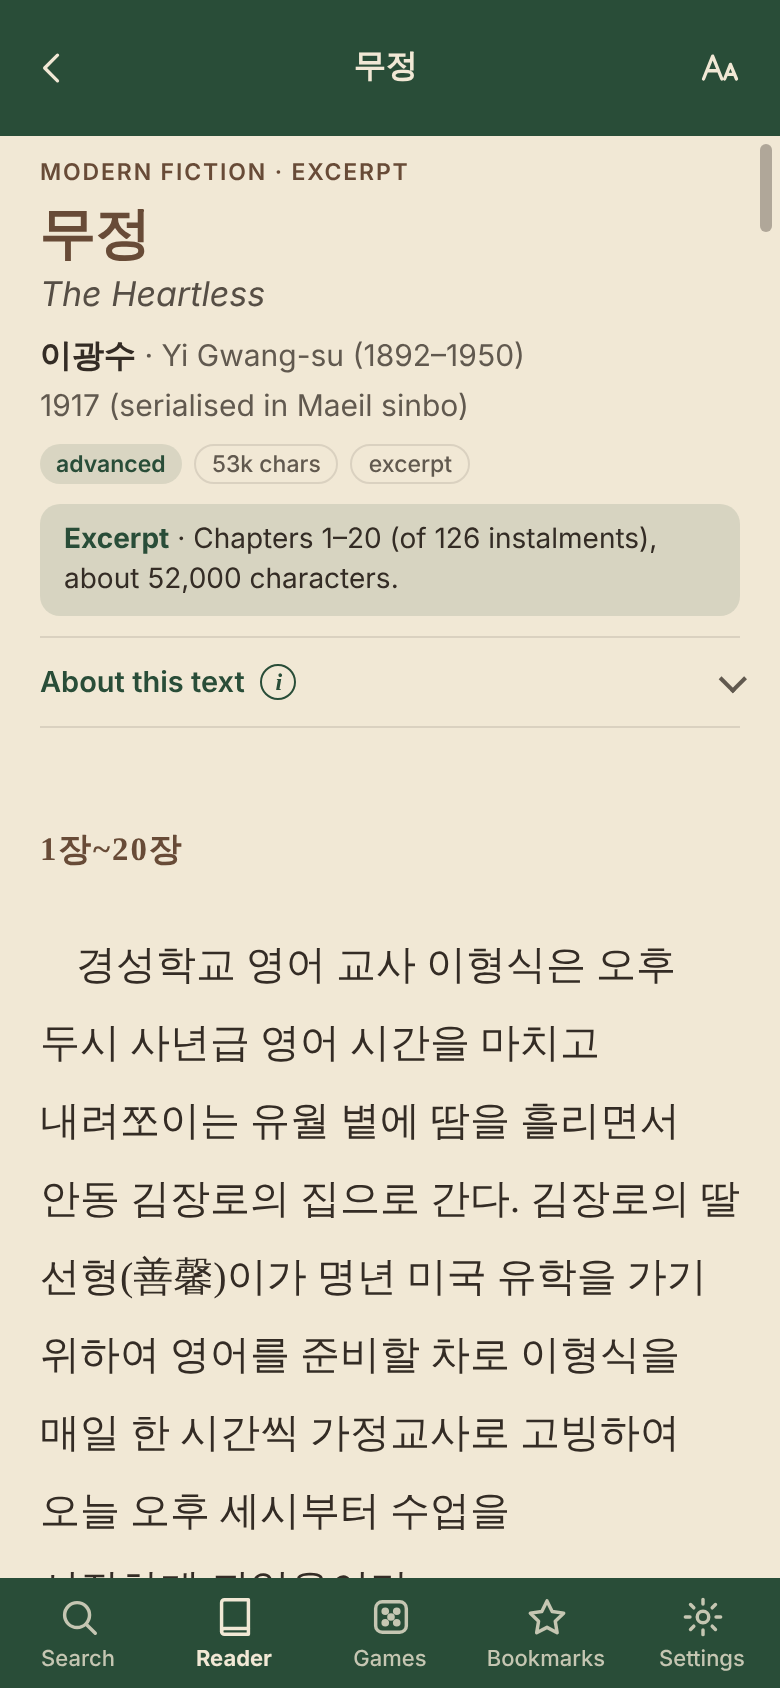
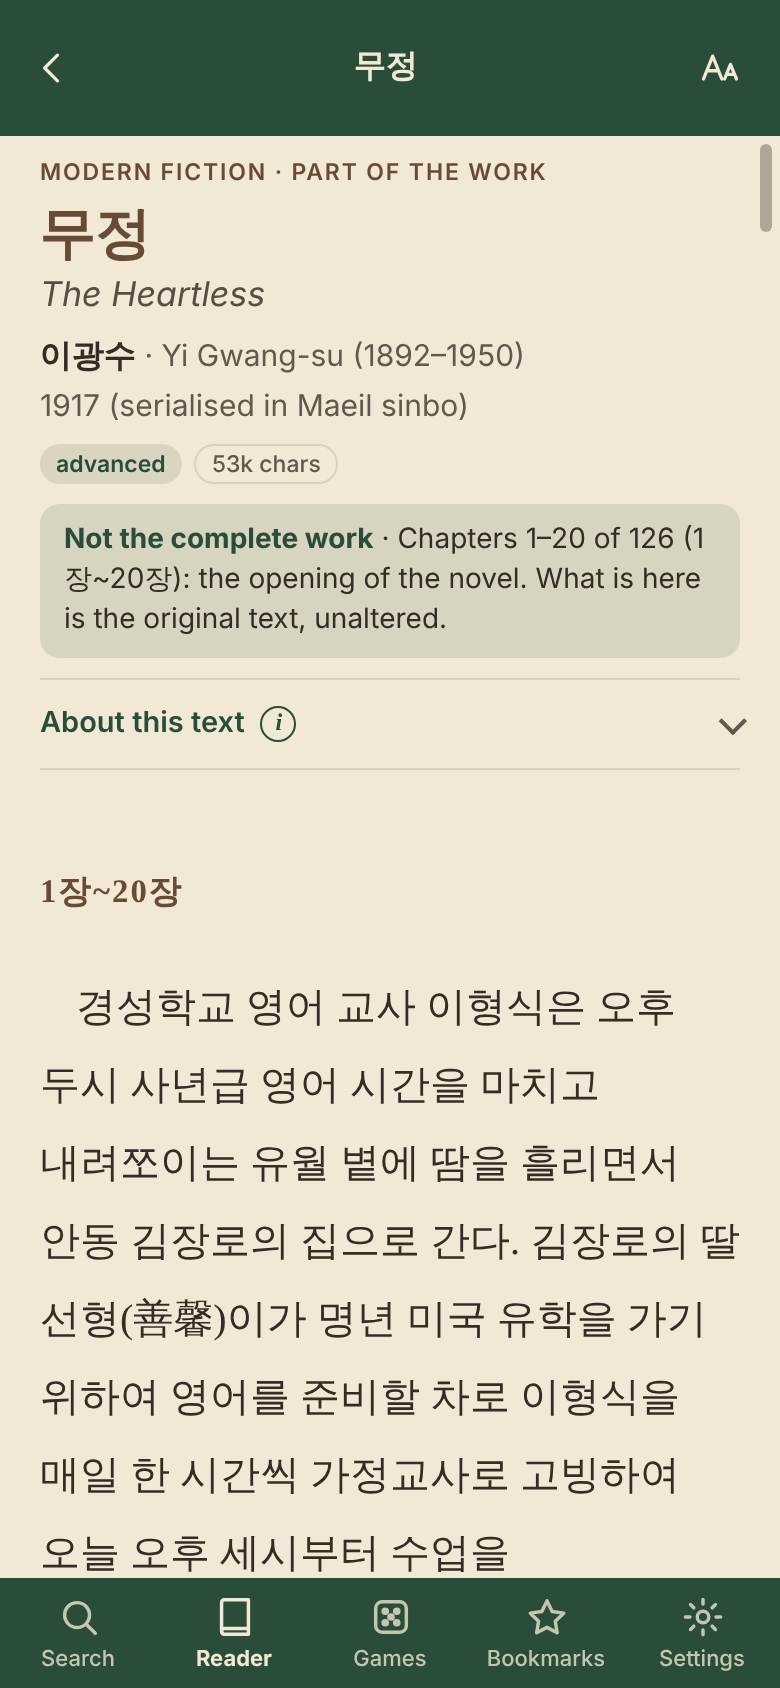
Reader: label incomplete works with what they contain; stop calling complete works excerpts
A catalogue `scope` line now marks the nine texts that are not the complete work (무정 1–20 of
126 chapters, 한중록 vol. 1 of 6, 표해록 book 1 of 3, 열하일기 one of 26 chapters, 인간문제 the
opening, 담헌연기 one section, four 실록 entries, 훈민정음 without the 해례, 오감도 poem 1 of 15).
The text shows "Not the complete work · <scope>. What is here is the original text, unaltered."
and the library a "part" chip. Complete works that were lifted from a busier page (the 1919
Declaration, the treaties, single newspaper columns) are no longer labelled as excerpts; the
current Constitution, wrongly described as Articles 1–110, is complete. Sectioning rules recorded.

Claude-Session: https://claude.ai/code/session_01KdPaeje8PEPnx6eSEhkmxd

diff --git a/app/src/db/types.ts b/app/src/db/types.ts
@@ -78,13 +78,13 @@ export interface TextBackground {
 export interface TextSummary {
   id: string; shelf: string; period?: string | null; year?: number | null; script: 'hangul' | 'hanmun' | 'mixed' | string;
   level?: string | null; chars: number; title_ko: string; title_en?: string | null; author_ko?: string | null; author_en?: string | null;
-  date?: string | null; themes: string[]; excerpt?: boolean; labels: TextLabels; summary_ko?: string; summary_en?: string;
+  date?: string | null; themes: string[]; /** not the complete work */ excerpt?: boolean; labels: TextLabels; summary_ko?: string; summary_en?: string;
 }
 export interface TextParagraph { n: number; orig: string; modern?: string | null; reading?: string | null; en?: string | null }
 export interface TextProvenance { source?: string; url?: string; page_title?: string; revision_id?: string | number; revision_timestamp?: string; edition?: string; licence?: string; fetched_at?: string; english_source?: string }
 export interface TextDoc {
   id: string;
-  meta: { title_ko: string; title_en?: string; author_ko?: string; author_en?: string; author_dates?: string; date?: string; year?: number; period?: string; themes?: string[]; shelf?: string; script?: string; excerpt?: boolean; excerpt_note?: string; pd_basis?: string; [k: string]: unknown };
+  meta: { title_ko: string; title_en?: string; author_ko?: string; author_en?: string; author_dates?: string; date?: string; year?: number; period?: string; themes?: string[]; shelf?: string; script?: string; excerpt?: boolean; excerpt_note?: string; scope?: string; pd_basis?: string; [k: string]: unknown };
   card: { summary_ko?: string; summary_en?: string; level?: string; edition_ko?: string; edition_en?: string };
   notes: { ko?: string; en?: string; background?: TextBackground | null };
   provenance?: TextProvenance | null;

diff --git a/app/src/views/TextView.tsx b/app/src/views/TextView.tsx
@@ -372,7 +372,7 @@ export function TextView({ id }: { id: string }) {
       <div class="rd-scroll" ref={scroller} onScroll={onScroll} onClick={onClick}>
         <article class="rd-article">
           <header class="rd-card">
-            <div class="eyebrow">{shelfLabel(m.shelf ?? '')}{m.excerpt ? ' · excerpt' : ''}</div>
+            <div class="eyebrow">{shelfLabel(m.shelf ?? '')}{m.scope ? ' · part of the work' : ''}</div>
             <h1 class="rd-title" lang="ko">{m.title_ko}</h1>
             {m.title_en && <div class="rd-title-en">{m.title_en}</div>}
             <div class="rd-by">
@@ -383,9 +383,8 @@ export function TextView({ id }: { id: string }) {
               {doc.card.level && <span class="chip-lvl">{doc.card.level}</span>}
               <span class="chip-quiet">{fmtChars(total)}</span>
               {doc.labels.text === 'ai' && <span class="chip-ai">AI-written</span>}
-              {m.excerpt && <span class="chip-quiet">excerpt</span>}
             </div>
-            {m.excerpt && <div class="rd-excerpt" role="note"><strong>Excerpt</strong> · {m.excerpt_note || 'part of a longer work'}</div>}
+            {m.scope && <div class="rd-excerpt" role="note"><strong>Not the complete work</strong> · {m.scope}. What is here is the original text, unaltered.</div>}
             <details class="rd-about">
               <summary><span>About this text</span><span class="rd-i" aria-hidden="true">i</span></summary>
               <div class="rd-about-body">

diff --git a/app/e2e/fast-scroll.spec.ts b/app/e2e/fast-scroll.spec.ts
@@ -37,7 +37,8 @@ test('reader: draggable fast scroll (phone + iPad)', async ({ page }) => {
   await page.goto('/#/reader/mujeong');
   await expect(page.locator('.rd-title')).toBeVisible();
   // an excerpt says so at the top
-  await expect(page.locator('.rd-excerpt')).toHaveText(/^Excerpt · .*126/);
+  await expect(page.locator('.rd-excerpt')).toHaveText(/^Not the complete work · Chapters 1–20 of 126 .*original text, unaltered/);
+  await expect(page.locator('.rd-card .eyebrow')).toContainText('part of the work');
   await page.screenshot({ path: '../docs/screenshots/reader-excerpt-phone.png' });
   await dragCheck(page, 'fast-scroll-phone.png');
   // chapters show in the bubble

diff --git a/app/src/views/Reader.tsx b/app/src/views/Reader.tsx
@@ -65,7 +65,7 @@ function Chips({ t }: { t: TextSummary }) {
       {t.level && <span class="chip-lvl">{t.level}</span>}
       <span class="rd-len">{fmtChars(t.chars)}</span>
       {t.labels?.translation === 'ai' && <span class="chip-quiet">AI translation</span>}
-      {t.excerpt && <span class="chip-quiet">excerpt</span>}
+      {t.excerpt && <span class="chip-quiet">part</span>}
     </div>
   );
 }

diff --git a/core/src/texts.rs b/core/src/texts.rs
@@ -23,7 +23,7 @@ pub struct TextSummary {
     pub author_en: String,
     pub date: String,
     pub themes: Vec<String>,
-    /// True when the text is an excerpt of a longer work.
+    /// True when the text is not the complete work (the catalogue gives a `scope` line).
     pub excerpt: bool,
     /// Blurb from the card (empty for texts without enrichment).
     pub summary_ko: String,
@@ -93,7 +93,7 @@ pub fn list_texts(pack: Option<&PackDb>) -> Result<Vec<TextSummary>> {
                 author_en: str_of(&meta, "author_en"),
                 date: str_of(&meta, "date"),
                 themes: meta.get("themes").and_then(Value::as_array).map(|a| a.iter().filter_map(Value::as_str).map(String::from).collect()).unwrap_or_default(),
-                excerpt: meta.get("excerpt").and_then(Value::as_bool).unwrap_or(false),
+                excerpt: meta.get("scope").and_then(Value::as_str).is_some_and(|s| !s.trim().is_empty()),
                 summary_ko: str_of(&card, "summary_ko"),
                 summary_en: str_of(&card, "summary_en"),
                 labels: json(r, 9),
@@ -146,7 +146,7 @@ INSERT INTO texts VALUES
   '{"summary_ko":"","summary_en":"","level":null}', '{"ko":"","en":"n"}', '{"source":"wikisource-ko","revision_id":7}', '{"text":"original"}',
   '{"status":"original-only"}', NULL, NULL),
  ('a-text', 1, 'graded', 'ancient', -2333, 'hangul', 'TOPIK 2', 12,
-  '{"title_ko":"단군","title_en":"Dangun","author_ko":"AI","author_en":"AI","date":"2026","themes":["ancient-goryeo","joseon"],"excerpt":true}',
+  '{"title_ko":"단군","title_en":"Dangun","author_ko":"AI","author_en":"AI","date":"2026","themes":["ancient-goryeo","joseon"],"excerpt":true,"scope":"Chapters 1–2 of 9"}',
   '{"summary_ko":"요약","summary_en":"Summary","level":"TOPIK 2"}', '{"ko":"k","en":"e"}', '{"source":"original"}', '{"text":"ai","translation":"ai"}',
   '{"status":"approved"}', '[{"word":"곰","gloss_en":"bear","level":1}]', '[{"q_ko":"?","q_en":"?","answer_en":"!"}]');
 INSERT INTO paragraphs VALUES ('a-text', 1, '둘째', '둘째m', NULL, 'Second'), ('a-text', 0, '첫째', NULL, NULL, 'First'), ('b-text', 0, '살어리', NULL, NULL, NULL);

diff --git a/pipeline/src/texts_catalog.rs b/pipeline/src/texts_catalog.rs
@@ -67,6 +67,10 @@ pub struct Entry {
     #[serde(default)]
     pub excerpt: bool,
     pub excerpt_note: Option<String>,
+    /// For a text that is not the complete work: what it contains, shown at the top of the text
+    /// ("Chapters 1–20 of 126 …"). Complete works lifted from a busier page (one column, the
+    /// original without a modern rendering) need no scope.
+    pub scope: Option<String>,
     pub source: String,
     pub source_title: String,
     /// Direct URL for sources that are not MediaWiki (e.g. the OHCHR page).

diff --git a/docs/READER.md b/docs/READER.md
@@ -211,3 +211,15 @@ sino-korean 67k, constitutions 33k, essays 19k, documents 12k, hanmun 1k). Agree
 3. **Split into sensible paragraphs, then sections**: uisanmundap (by speaker turn, grouped by
    topic), seoyu_gyeonmun_minkwon, hongdaeyong_yeongi.
 4. **Leave as is**: speeches, poems, treaties, short stories under ~8k characters.
+
+### Sectioning rules (agreed 2026-11-04)
+- The text never changes; only paragraph breaks and `## ` headings are added (`labels.sections =
+  "ai"`, checked character for character against the raw source, labelled in About this text).
+- Use the work's own divisions first (articles/chapters, 권/회/장, dated entries, numbered parts).
+- Otherwise break at scene, place, time or speaker changes, about 2,500–4,000 characters per
+  section; short numbered headings in Korean with English under them. 무정 (1장~20장): ~12–15
+  scene sections. Diaries by date (group by month when very long); tales by episode; essays by
+  argument step; dialogues (의산문답) split by speaker. Short texts are left alone.
+- Incomplete works carry a catalogue `scope` line, shown at the top ("Not the complete work · …");
+  complete works lifted from a busier page (one column, original without the modern rendering)
+  are not labelled as partial.
